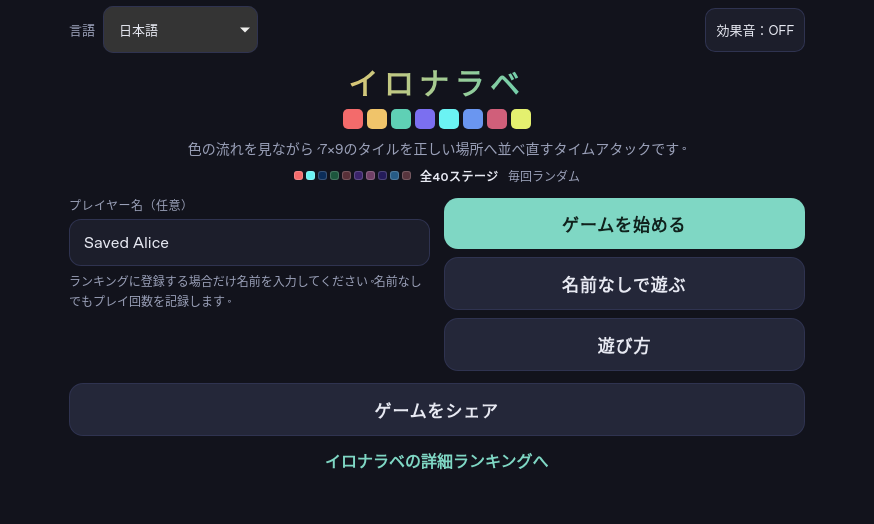
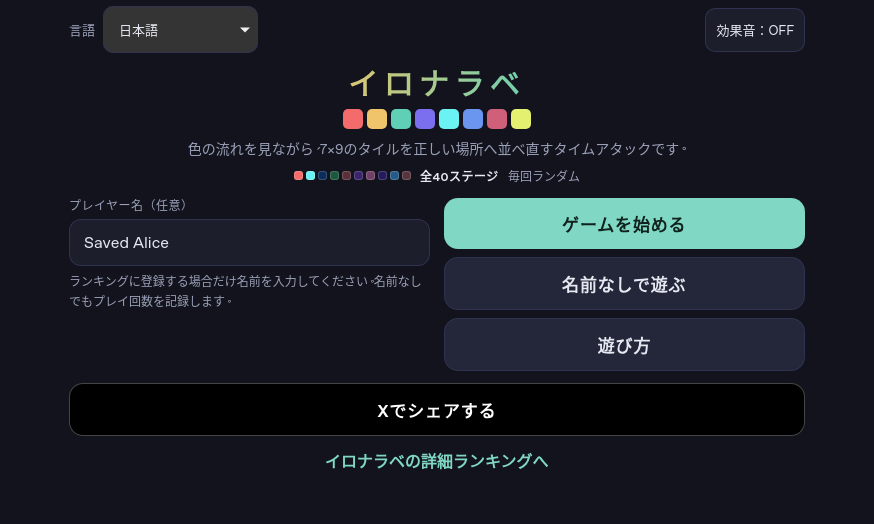
feat: share home and result drafts directly on X

Changed region(s): [[0.0618, 0.7328, 0.9268, 0.855]]

diff --git a/js/translations.js b/js/translations.js
@@ -100,7 +100,9 @@
     "紅葉": "紅葉",
     "全{0}ステージ": "全{0}ステージ",
     "全{0}ステージから毎回1つが選ばれる": "全{0}ステージから毎回1つが選ばれる",
-    "イロナラベ\n全{0}ステージから毎回ランダム。色の流れを見ながら、7×9のタイルを正しい場所へ並べよう。\n{1}": "イロナラベ\n全{0}ステージから毎回ランダム。色の流れを見ながら、7×9のタイルを正しい場所へ並べよう。\n{1}"
+    "イロナラベ\n全{0}ステージから毎回ランダム。色の流れを見ながら、7×9のタイルを正しい場所へ並べよう。\n{1}": "イロナラベ\n全{0}ステージから毎回ランダム。色の流れを見ながら、7×9のタイルを正しい場所へ並べよう。\n{1}",
+    "Xでシェアする": "Xでシェアする",
+    "イロナラベ\n色の流れを見ながら、7×9のタイルを正しい場所へ並べよう。\n{0}": "イロナラベ\n色の流れを見ながら、7×9のタイルを正しい場所へ並べよう。\n{0}"
   },
   "en": {
     "イロナラベ": "Ironarabe",
@@ -194,7 +196,9 @@
     "紅葉": "Autumn Leaves",
     "全{0}ステージ": "{0} stages",
     "全{0}ステージから毎回1つが選ばれる": "One of the {0} stages is chosen at random each time",
-    "イロナラベ\n全{0}ステージから毎回ランダム。色の流れを見ながら、7×9のタイルを正しい場所へ並べよう。\n{1}": "Ironarabe\nA random stage from {0} each time. Follow the color gradients and arrange the 7×9 tiles in their correct positions.\n{1}"
+    "イロナラベ\n全{0}ステージから毎回ランダム。色の流れを見ながら、7×9のタイルを正しい場所へ並べよう。\n{1}": "Ironarabe\nA random stage from {0} each time. Follow the color gradients and arrange the 7×9 tiles in their correct positions.\n{1}",
+    "Xでシェアする": "Share on X",
+    "イロナラベ\n色の流れを見ながら、7×9のタイルを正しい場所へ並べよう。\n{0}": "Ironarabe\nFollow the color gradients and arrange the 7×9 tiles in their correct positions.\n{0}"
   },
   "es": {
     "イロナラベ": "Ironarabe",
@@ -288,7 +292,9 @@
     "紅葉": "Hojas de otoño",
     "全{0}ステージ": "{0} niveles",
     "全{0}ステージから毎回1つが選ばれる": "En cada partida se elige uno de los {0} niveles al azar",
-    "イロナラベ\n全{0}ステージから毎回ランダム。色の流れを見ながら、7×9のタイルを正しい場所へ並べよう。\n{1}": "Ironarabe\nUn nivel aleatorio entre {0} en cada partida. Sigue los degradados de color y coloca las fichas de la cuadrícula de 7×9 en su lugar.\n{1}"
+    "イロナラベ\n全{0}ステージから毎回ランダム。色の流れを見ながら、7×9のタイルを正しい場所へ並べよう。\n{1}": "Ironarabe\nUn nivel aleatorio entre {0} en cada partida. Sigue los degradados de color y coloca las fichas de la cuadrícula de 7×9 en su lugar.\n{1}",
+    "Xでシェアする": "Compartir en X",
+    "イロナラベ\n色の流れを見ながら、7×9のタイルを正しい場所へ並べよう。\n{0}": "Ironarabe\nSigue los degradados de color y coloca las fichas de la cuadrícula de 7×9 en su lugar.\n{0}"
   },
   "pt-BR": {
     "イロナラベ": "Ironarabe",
@@ -382,7 +388,9 @@
     "紅葉": "Folhas de outono",
     "全{0}ステージ": "{0} fases",
     "全{0}ステージから毎回1つが選ばれる": "Uma das {0} fases é escolhida aleatoriamente a cada partida",
-    "イロナラベ\n全{0}ステージから毎回ランダム。色の流れを見ながら、7×9のタイルを正しい場所へ並べよう。\n{1}": "Ironarabe\nUma fase aleatória entre {0} a cada partida. Siga os degradês de cores e coloque as peças da grade de 7×9 nos lugares certos.\n{1}"
+    "イロナラベ\n全{0}ステージから毎回ランダム。色の流れを見ながら、7×9のタイルを正しい場所へ並べよう。\n{1}": "Ironarabe\nUma fase aleatória entre {0} a cada partida. Siga os degradês de cores e coloque as peças da grade de 7×9 nos lugares certos.\n{1}",
+    "Xでシェアする": "Compartilhar no X",
+    "イロナラベ\n色の流れを見ながら、7×9のタイルを正しい場所へ並べよう。\n{0}": "Ironarabe\nSiga os degradês de cores e coloque as peças da grade de 7×9 nos lugares certos.\n{0}"
   },
   "zh-Hans": {
     "イロナラベ": "Ironarabe",
@@ -476,7 +484,9 @@
     "紅葉": "红叶",
     "全{0}ステージ": "共{0}个关卡",
     "全{0}ステージから毎回1つが選ばれる": "每次从{0}个关卡中随机选择一个",
-    "イロナラベ\n全{0}ステージから毎回ランダム。色の流れを見ながら、7×9のタイルを正しい場所へ並べよう。\n{1}": "Ironarabe\n每次从{0}个关卡中随机选择一个。观察色彩渐变，将7×9的方块排列到正确位置。\n{1}"
+    "イロナラベ\n全{0}ステージから毎回ランダム。色の流れを見ながら、7×9のタイルを正しい場所へ並べよう。\n{1}": "Ironarabe\n每次从{0}个关卡中随机选择一个。观察色彩渐变，将7×9的方块排列到正确位置。\n{1}",
+    "Xでシェアする": "分享到 X",
+    "イロナラベ\n色の流れを見ながら、7×9のタイルを正しい場所へ並べよう。\n{0}": "Ironarabe\n观察色彩渐变，将7×9的方块排列到正确位置。\n{0}"
   },
   "fr": {
     "イロナラベ": "Ironarabe",
@@ -570,7 +580,9 @@
     "紅葉": "Feuilles d’automne",
     "全{0}ステージ": "{0} niveaux",
     "全{0}ステージから毎回1つが選ばれる": "Un des {0} niveaux est choisi au hasard à chaque partie",
-    "イロナラベ\n全{0}ステージから毎回ランダム。色の流れを見ながら、7×9のタイルを正しい場所へ並べよう。\n{1}": "Ironarabe\nUn niveau choisi au hasard parmi {0} à chaque partie. Suivez les dégradés de couleurs et replacez les tuiles de la grille de 7×9 au bon endroit.\n{1}"
+    "イロナラベ\n全{0}ステージから毎回ランダム。色の流れを見ながら、7×9のタイルを正しい場所へ並べよう。\n{1}": "Ironarabe\nUn niveau choisi au hasard parmi {0} à chaque partie. Suivez les dégradés de couleurs et replacez les tuiles de la grille de 7×9 au bon endroit.\n{1}",
+    "Xでシェアする": "Partager sur X",
+    "イロナラベ\n色の流れを見ながら、7×9のタイルを正しい場所へ並べよう。\n{0}": "Ironarabe\nSuivez les dégradés de couleurs et replacez les tuiles de la grille 7×9 au bon endroit.\n{0}"
   },
   "de": {
     "イロナラベ": "Ironarabe",
@@ -664,7 +676,9 @@
     "紅葉": "Herbstlaub",
     "全{0}ステージ": "{0} Level",
     "全{0}ステージから毎回1つが選ばれる": "Bei jedem Spiel wird eines der {0} Level zufällig gewählt",
-    "イロナラベ\n全{0}ステージから毎回ランダム。色の流れを見ながら、7×9のタイルを正しい場所へ並べよう。\n{1}": "Ironarabe\nBei jedem Spiel wird eines von {0} Leveln zufällig gewählt. Folge den Farbverläufen und bringe die 7×9 Kacheln an die richtigen Stellen.\n{1}"
+    "イロナラベ\n全{0}ステージから毎回ランダム。色の流れを見ながら、7×9のタイルを正しい場所へ並べよう。\n{1}": "Ironarabe\nBei jedem Spiel wird eines von {0} Leveln zufällig gewählt. Folge den Farbverläufen und bringe die 7×9 Kacheln an die richtigen Stellen.\n{1}",
+    "Xでシェアする": "Auf X teilen",
+    "イロナラベ\n色の流れを見ながら、7×9のタイルを正しい場所へ並べよう。\n{0}": "Ironarabe\nFolge den Farbverläufen und bringe die 7×9 Kacheln an die richtigen Stellen.\n{0}"
   },
   "ko": {
     "イロナラベ": "Ironarabe",
@@ -758,7 +772,9 @@
     "紅葉": "단풍",
     "全{0}ステージ": "총 {0}개 스테이지",
     "全{0}ステージから毎回1つが選ばれる": "매번 {0}개 스테이지 중 하나가 무작위로 선택됩니다",
-    "イロナラベ\n全{0}ステージから毎回ランダム。色の流れを見ながら、7×9のタイルを正しい場所へ並べよう。\n{1}": "Ironarabe\n매번 {0}개 스테이지 중 하나를 무작위로 선택합니다. 색의 그라데이션을 보며 7×9 타일을 올바른 위치에 배열해 보세요.\n{1}"
+    "イロナラベ\n全{0}ステージから毎回ランダム。色の流れを見ながら、7×9のタイルを正しい場所へ並べよう。\n{1}": "Ironarabe\n매번 {0}개 스테이지 중 하나를 무작위로 선택합니다. 색의 그라데이션을 보며 7×9 타일을 올바른 위치에 배열해 보세요.\n{1}",
+    "Xでシェアする": "X에 공유하기",
+    "イロナラベ\n色の流れを見ながら、7×9のタイルを正しい場所へ並べよう。\n{0}": "Ironarabe\n색의 그라데이션을 보며 7×9 타일을 올바른 위치에 배열해 보세요.\n{0}"
   },
   "ru": {
     "イロナラベ": "Ironarabe",
@@ -852,7 +868,9 @@
     "紅葉": "Осенняя листва",
     "全{0}ステージ": "{0} уровней",
     "全{0}ステージから毎回1つが選ばれる": "Каждый раз случайно выбирается один из {0} уровней",
-    "イロナラベ\n全{0}ステージから毎回ランダム。色の流れを見ながら、7×9のタイルを正しい場所へ並べよう。\n{1}": "Ironarabe\nКаждый раз — случайный уровень из {0}. Следите за цветовыми переходами и расставляйте плитки поля 7×9 по правильным местам.\n{1}"
+    "イロナラベ\n全{0}ステージから毎回ランダム。色の流れを見ながら、7×9のタイルを正しい場所へ並べよう。\n{1}": "Ironarabe\nКаждый раз — случайный уровень из {0}. Следите за цветовыми переходами и расставляйте плитки поля 7×9 по правильным местам.\n{1}",
+    "Xでシェアする": "Поделиться в X",
+    "イロナラベ\n色の流れを見ながら、7×9のタイルを正しい場所へ並べよう。\n{0}": "Ironarabe\nСледите за цветовыми переходами и расставляйте плитки поля 7×9 по правильным местам.\n{0}"
   },
   "it": {
     "イロナラベ": "Ironarabe",
@@ -946,7 +964,9 @@
     "紅葉": "Foglie d’autunno",
     "全{0}ステージ": "{0} livelli",
     "全{0}ステージから毎回1つが選ばれる": "A ogni partita viene scelto casualmente un livello tra i {0} disponibili",
-    "イロナラベ\n全{0}ステージから毎回ランダム。色の流れを見ながら、7×9のタイルを正しい場所へ並べよう。\n{1}": "Ironarabe\nUn livello casuale tra {0} a ogni partita. Segui le sfumature di colore e sistema le tessere della griglia 7×9 nelle posizioni corrette.\n{1}"
+    "イロナラベ\n全{0}ステージから毎回ランダム。色の流れを見ながら、7×9のタイルを正しい場所へ並べよう。\n{1}": "Ironarabe\nUn livello casuale tra {0} a ogni partita. Segui le sfumature di colore e sistema le tessere della griglia 7×9 nelle posizioni corrette.\n{1}",
+    "Xでシェアする": "Condividi su X",
+    "イロナラベ\n色の流れを見ながら、7×9のタイルを正しい場所へ並べよう。\n{0}": "Ironarabe\nSegui le sfumature di colore e sistema le tessere della griglia 7×9 nelle posizioni corrette.\n{0}"
   },
   "zh-Hant": {
     "イロナラベ": "Ironarabe",
@@ -1040,7 +1060,9 @@
     "紅葉": "紅葉",
     "全{0}ステージ": "共{0}個關卡",
     "全{0}ステージから毎回1つが選ばれる": "每次從{0}個關卡中隨機選擇一個",
-    "イロナラベ\n全{0}ステージから毎回ランダム。色の流れを見ながら、7×9のタイルを正しい場所へ並べよう。\n{1}": "Ironarabe\n每次從{0}個關卡中隨機選擇一個。觀察色彩漸層，將7×9的方塊排列到正確位置。\n{1}"
+    "イロナラベ\n全{0}ステージから毎回ランダム。色の流れを見ながら、7×9のタイルを正しい場所へ並べよう。\n{1}": "Ironarabe\n每次從{0}個關卡中隨機選擇一個。觀察色彩漸層，將7×9的方塊排列到正確位置。\n{1}",
+    "Xでシェアする": "分享到 X",
+    "イロナラベ\n色の流れを見ながら、7×9のタイルを正しい場所へ並べよう。\n{0}": "Ironarabe\n觀察色彩漸層，將7×9的方塊排列到正確位置。\n{0}"
   },
   "id": {
     "イロナラベ": "Ironarabe",
@@ -1134,7 +1156,9 @@
     "紅葉": "Daun musim gugur",
     "全{0}ステージ": "{0} level",
     "全{0}ステージから毎回1つが選ばれる": "Satu dari {0} level dipilih secara acak setiap kali bermain",
-    "イロナラベ\n全{0}ステージから毎回ランダム。色の流れを見ながら、7×9のタイルを正しい場所へ並べよう。\n{1}": "Ironarabe\nSatu level acak dari {0} setiap kali bermain. Ikuti gradasi warna dan susun ubin pada bidang 7×9 ke posisi yang benar.\n{1}"
+    "イロナラベ\n全{0}ステージから毎回ランダム。色の流れを見ながら、7×9のタイルを正しい場所へ並べよう。\n{1}": "Ironarabe\nSatu level acak dari {0} setiap kali bermain. Ikuti gradasi warna dan susun ubin pada bidang 7×9 ke posisi yang benar.\n{1}",
+    "Xでシェアする": "Bagikan di X",
+    "イロナラベ\n色の流れを見ながら、7×9のタイルを正しい場所へ並べよう。\n{0}": "Ironarabe\nIkuti gradasi warna dan susun ubin pada bidang 7×9 ke posisi yang benar.\n{0}"
   },
   "tr": {
     "イロナラベ": "Ironarabe",
@@ -1228,7 +1252,9 @@
     "紅葉": "Sonbahar Yaprakları",
     "全{0}ステージ": "Toplam {0} bölüm",
     "全{0}ステージから毎回1つが選ばれる": "Her oyunda {0} bölümden biri rastgele seçilir",
-    "イロナラベ\n全{0}ステージから毎回ランダム。色の流れを見ながら、7×9のタイルを正しい場所へ並べよう。\n{1}": "Ironarabe\nHer oyunda {0} bölümden biri rastgele seçilir. Renk geçişlerini takip ederek 7×9 kareyi doğru yerlerine yerleştir.\n{1}"
+    "イロナラベ\n全{0}ステージから毎回ランダム。色の流れを見ながら、7×9のタイルを正しい場所へ並べよう。\n{1}": "Ironarabe\nHer oyunda {0} bölümden biri rastgele seçilir. Renk geçişlerini takip ederek 7×9 kareyi doğru yerlerine yerleştir.\n{1}",
+    "Xでシェアする": "X'te paylaş",
+    "イロナラベ\n色の流れを見ながら、7×9のタイルを正しい場所へ並べよう。\n{0}": "Ironarabe\nRenk geçişlerini takip ederek 7×9 kareyi doğru yerlerine yerleştir.\n{0}"
   },
   "vi": {
     "イロナラベ": "Ironarabe",
@@ -1322,7 +1348,9 @@
     "紅葉": "Lá thu",
     "全{0}ステージ": "Tổng cộng {0} màn",
     "全{0}ステージから毎回1つが選ばれる": "Mỗi lần chơi sẽ chọn ngẫu nhiên một trong {0} màn",
-    "イロナラベ\n全{0}ステージから毎回ランダム。色の流れを見ながら、7×9のタイルを正しい場所へ並べよう。\n{1}": "Ironarabe\nMỗi lần chơi sẽ chọn ngẫu nhiên một trong {0} màn. Quan sát dải màu chuyển sắc và xếp các ô trong lưới 7×9 về đúng vị trí.\n{1}"
+    "イロナラベ\n全{0}ステージから毎回ランダム。色の流れを見ながら、7×9のタイルを正しい場所へ並べよう。\n{1}": "Ironarabe\nMỗi lần chơi sẽ chọn ngẫu nhiên một trong {0} màn. Quan sát dải màu chuyển sắc và xếp các ô trong lưới 7×9 về đúng vị trí.\n{1}",
+    "Xでシェアする": "Chia sẻ trên X",
+    "イロナラベ\n色の流れを見ながら、7×9のタイルを正しい場所へ並べよう。\n{0}": "Ironarabe\nQuan sát dải màu chuyển sắc và xếp các ô trong lưới 7×9 về đúng vị trí.\n{0}"
   },
   "th": {
     "イロナラベ": "Ironarabe",
@@ -1416,7 +1444,9 @@
     "紅葉": "ใบไม้เปลี่ยนสี",
     "全{0}ステージ": "ทั้งหมด {0} ด่าน",
     "全{0}ステージから毎回1つが選ばれる": "สุ่มเลือก 1 ด่านจากทั้งหมด {0} ด่านในแต่ละครั้ง",
-    "イロナラベ\n全{0}ステージから毎回ランダム。色の流れを見ながら、7×9のタイルを正しい場所へ並べよう。\n{1}": "Ironarabe\nสุ่ม 1 ด่านจากทั้งหมด {0} ด่านทุกครั้ง สังเกตการไล่สีแล้วจัดแผ่นในตาราง 7×9 ให้ตรงตำแหน่งที่ถูกต้อง\n{1}"
+    "イロナラベ\n全{0}ステージから毎回ランダム。色の流れを見ながら、7×9のタイルを正しい場所へ並べよう。\n{1}": "Ironarabe\nสุ่ม 1 ด่านจากทั้งหมด {0} ด่านทุกครั้ง สังเกตการไล่สีแล้วจัดแผ่นในตาราง 7×9 ให้ตรงตำแหน่งที่ถูกต้อง\n{1}",
+    "Xでシェアする": "แชร์บน X",
+    "イロナラベ\n色の流れを見ながら、7×9のタイルを正しい場所へ並べよう。\n{0}": "Ironarabe\nสังเกตการไล่สีแล้วจัดแผ่นในตาราง 7×9 ให้ตรงตำแหน่งที่ถูกต้อง\n{0}"
   }
 };
 });

diff --git a/index.html b/index.html
@@ -13,7 +13,7 @@
 <meta name="description" content="色の流れを並べ直す40問のタイムアタックパズル。15言語・効果音に対応。">
 <meta name="twitter:card" content="summary">
 <meta name="twitter:url" content="https://chameleonjp-lab.github.io/ironarabe/">
-<meta name="ironarabe-ui-release" content="ironarabe-web-1.6.1-home-name">
+<meta name="ironarabe-ui-release" content="ironarabe-web-1.6.2-x-share">
 <style>
   :root {
     --bg:#12131c;
@@ -119,6 +119,7 @@
   .home-name { min-width:0; margin-bottom:0; }
   .name-hint { color:var(--muted); font-size:12px; line-height:1.6; margin:7px 0 0; overflow-wrap:anywhere; }
   .home-share-btn { margin-top:0; padding:13px 14px; }
+  .btn.x-share { display:block; background:#000; color:#fff; border:1px solid #444; text-align:center; text-decoration:none; }
   .stage-note { display:flex; align-items:center; justify-content:center; flex-wrap:wrap; gap:6px 9px; margin:-6px 0 12px; color:var(--muted); font-size:12px; }
   .stage-note strong { color:var(--text); font-size:12px; letter-spacing:.04em; }
   .stage-dots { display:flex; gap:3px; }
@@ -360,7 +361,7 @@
         <li id="stageCountInstruction" data-i18n="全{0}ステージから毎回1つが選ばれる">全40ステージから毎回1つが選ばれる</li>
       </ol>
     </div>
-    <button class="btn secondary home-share-btn" id="homeShareBtn" data-i18n="ゲームをシェア">ゲームをシェア</button>
+    <a class="btn x-share home-share-btn" id="homeShareBtn" href="https://twitter.com/intent/tweet" target="_blank" rel="noopener noreferrer" data-i18n="Xでシェアする">Xでシェアする</a>
     <a class="panel-link" id="homeLabLink" href="https://chameleonjp-lab.github.io/chameleonjp_lab/ranking.html?game=ironarabe" data-i18n="イロナラベの詳細ランキングへ">イロナラベの詳細ランキングへ</a>
     <div class="toast" id="homeToast" aria-live="polite"></div>
   </section>
@@ -414,7 +415,7 @@
     <div class="spacer"></div>
     <button class="btn" id="againBtn" data-i18n="もう一度遊ぶ">もう一度遊ぶ</button>
     <div class="btn-row">
-      <button class="btn secondary" id="resultShareBtn" data-i18n="結果をシェア">結果をシェア</button>
+      <a class="btn x-share" id="resultShareBtn" href="https://twitter.com/intent/tweet" target="_blank" rel="noopener noreferrer" data-i18n="Xでシェアする">Xでシェアする</a>
       <button class="btn secondary" id="homeBtn" data-i18n="ホームへ戻る">ホームへ戻る</button>
     </div>
     <a class="panel-link" id="resultLabLink" href="https://chameleonjp-lab.github.io/chameleonjp_lab/ranking.html?game=ironarabe" data-i18n="イロナラベの詳細ランキングへ">イロナラベの詳細ランキングへ</a>
@@ -596,7 +597,7 @@
     },CLEAR_BOARD_DISPLAY_MS);
   }
   function onBoardTap(e){const target=e.target.closest('.tile');if(!target)return;const pos=parseInt(target.dataset.pos,10);if(!Number.isNaN(pos))selectTile(pos);}
-  function showResult(playId){if(playId!==state.playId||state.resultShownPlayId===playId)return;clearToast('home');hideCompletion();el.retireBtn.disabled=true;state.resultShownPlayId=playId;const score=elapsedMsToScore(state.elapsedMs);setMessage(el.resultTime,'{0}秒',()=>[formatScore(score)]);setMessage(el.resultOperations,'{0}回操作',()=>[formatNumber(state.operations)]);updateStageUi();setPhase('result');sound.play('result');loadRankings(false);}
+  function showResult(playId){if(playId!==state.playId||state.resultShownPlayId===playId)return;clearToast('home');hideCompletion();el.retireBtn.disabled=true;state.resultShownPlayId=playId;const score=elapsedMsToScore(state.elapsedMs);setMessage(el.resultTime,'{0}秒',()=>[formatScore(score)]);setMessage(el.resultOperations,'{0}回操作',()=>[formatNumber(state.operations)]);updateStageUi();updateShareLinks();setPhase('result');sound.play('result');loadRankings(false);}
   function retire(){if(state.phase!=='playing'||state.cleared||state.inputLocked||state.resultShownPlayId===state.playId)return;clearClearTimer();clearSwapTimer();returnHome();}
 
   const guestCounter=IronarabeGuests.createGuestPlayCounter({
@@ -633,19 +634,14 @@
   function applyRankingRows(rows){state.rankingRows=rows;renderRankingList(el.resultRankingList,rows);if(rows.length===0)setRankingState('empty','まだランキング記録がありません。');else setRankingState('ready','');}
   function loadRankings(force){if(!isRankingConfigured()){setRankingState('error','ランキングは未設定です。');return Promise.resolve([]);}if(!force&&state.rankingRows.length){applyRankingRows(state.rankingRows);return Promise.resolve(state.rankingRows);}const requestId=++state.rankingRequestId;setRankingState('loading','ランキングを読み込み中…');return postRpc('get_best_score_ranking',{p_game_slug:GAME_SLUG,p_limit:RANKING_LIMIT},RANKING_FETCH_TIMEOUT_MS).then(function(data){if(requestId!==state.rankingRequestId)return [];const rows=normalizeRankingRows(data);applyRankingRows(rows);return rows;}).catch(function(){if(requestId!==state.rankingRequestId)return [];setRankingState('error','ランキングを読み込めませんでした。');return [];});}
 
-  function showToast(name,message,isError){const target=name==='result'?el.resultToast:el.homeToast;clearToast(name);setMessage(target,message);target.classList.toggle('err',Boolean(isError));const timerId=setTimeout(function(){if(state.toastTimerIds[name]!==timerId)return;clearToast(name);},1800);state.toastTimerIds[name]=timerId;}
-  function copyWithClipboardApi(text){if(!(navigator.clipboard&&navigator.clipboard.writeText))return Promise.reject(new Error('clipboard unavailable'));return navigator.clipboard.writeText(text);}
-  function copyWithTemporaryTextarea(text){return new Promise(function(resolve,reject){const ta=document.createElement('textarea');ta.value=text;ta.setAttribute('readonly','');ta.style.position='fixed';ta.style.top='-1000px';ta.style.left='-1000px';ta.style.opacity='0';document.body.appendChild(ta);try{ta.focus();ta.select();if(ta.setSelectionRange)ta.setSelectionRange(0,text.length);document.execCommand('copy')?resolve():reject(new Error('copy failed'));}catch(e){reject(e);}finally{document.body.removeChild(ta);}});}
-  function copyText(text){return copyWithClipboardApi(text).catch(function(){return copyWithTemporaryTextarea(text);});}
-  function shareText(text,toastName){function copyAndNotify(){copyText(text).then(()=>showToast(toastName,'シェア文をコピーしました',false)).catch(()=>showToast(toastName,'コピーできませんでした',true));}if(navigator.share){navigator.share({title:t('イロナラベ'),text:text}).catch(function(err){if(err&&err.name==='AbortError')return;copyAndNotify();});return;}copyAndNotify();}
-  function shareHome(){shareText(t('イロナラベ\n全{0}ステージから毎回ランダム。色の流れを見ながら、7×9のタイルを正しい場所へ並べよう。\n{1}',[formatNumber(STAGES.length),GAME_URL]),'home');}
-  function shareResult(){shareText(t('イロナラベ\nSTAGE {0}「{1}」を{2}秒・操作{3}回でクリア！\n{4}',[stageShortLabel(state.stage),stageLongLabel(state.stage),formatElapsedMs(state.elapsedMs),formatNumber(state.operations),GAME_URL]),'result');}
+  function xShareUrl(text){const url=new URL('https://twitter.com/intent/tweet');url.searchParams.set('text',text);return url.href;}
+  function updateShareLinks(){el.homeShareBtn.href=xShareUrl(t('イロナラベ\n色の流れを見ながら、7×9のタイルを正しい場所へ並べよう。\n{0}',[GAME_URL]));el.resultShareBtn.href=xShareUrl(t('イロナラベ\nSTAGE {0}「{1}」を{2}秒・操作{3}回でクリア！\n{4}',[stageShortLabel(state.stage),stageLongLabel(state.stage),formatElapsedMs(state.elapsedMs),formatNumber(state.operations),GAME_URL]));}
   function buildLogoChips(){STAGE_PALETTES.slice(0,2).flatMap(function(palette){return palette.corners;}).forEach(function(hex){const s=document.createElement('span');s.style.background=hex;el.logoChips.appendChild(s);});}
   function buildStagePackDots(){STAGE_PALETTES.map(function(palette){return palette.anchors?palette.anchors[0]:palette.corners[0];}).forEach(function(hex){const dot=document.createElement('i');dot.style.background=hex;el.stagePackDots.appendChild(dot);});}
 
   function updateCountdownValue(){const step=COUNTDOWN_STEPS[state.countdownStep];el.countdownValue.textContent=step==='START'?t('START'):formatNumber(Number(step));}
   function updateSoundButtons(){[el.homeSoundBtn,el.resultSoundBtn].forEach(function(button){setMessage(button,sound.isEnabled()?'効果音：ON':'効果音：OFF');button.setAttribute('aria-pressed',String(sound.isEnabled()));});}
-  function refreshLanguage(){setMessage(el.stageCountLabel,'全{0}ステージ',()=>[formatNumber(STAGES.length)]);setMessage(el.stageCountInstruction,'全{0}ステージから毎回1つが選ばれる',()=>[formatNumber(STAGES.length)]);i18n.applyTranslations();el.languageSelect.value=i18n.getLanguage();updateStageUi();updateCountdownValue();el.timeDisplay.textContent=formatElapsedMs(state.elapsedMs);el.operationDisplay.textContent=formatNumber(state.operations);renderRankingList(el.resultRankingList,state.rankingRows);updateSoundButtons();}
+  function refreshLanguage(){setMessage(el.stageCountLabel,'全{0}ステージ',()=>[formatNumber(STAGES.length)]);setMessage(el.stageCountInstruction,'全{0}ステージから毎回1つが選ばれる',()=>[formatNumber(STAGES.length)]);i18n.applyTranslations();el.languageSelect.value=i18n.getLanguage();updateStageUi();updateShareLinks();updateCountdownValue();el.timeDisplay.textContent=formatElapsedMs(state.elapsedMs);el.operationDisplay.textContent=formatNumber(state.operations);renderRankingList(el.resultRankingList,state.rankingRows);updateSoundButtons();}
   IronarabeI18n.SUPPORTED_LANGUAGES.forEach(function(language){const option=document.createElement('option');option.value=language.id;option.textContent=language.name;option.lang=language.id;el.languageSelect.appendChild(option);});
   el.languageSelect.addEventListener('change',function(){i18n.setLanguage(el.languageSelect.value);refreshLanguage();});
   [el.homeSoundBtn,el.resultSoundBtn].forEach(function(button){button.addEventListener('click',function(){sound.setEnabled(!sound.isEnabled());if(sound.isEnabled())sound.unlock();updateSoundButtons();});});
@@ -661,8 +657,6 @@
   el.board.addEventListener('contextmenu',function(e){e.preventDefault();});
   el.againBtn.addEventListener('click',replay);
   el.homeBtn.addEventListener('click',returnHome);
-  el.homeShareBtn.addEventListener('click',shareHome);
-  el.resultShareBtn.addEventListener('click',shareResult);
   el.homeLabLink.href=LAB_URL;
   el.resultLabLink.href=LAB_URL;
   window.addEventListener('pagehide',function(){stopTimer();clearCountdownTimers();clearClearTimer();clearSwapTimer();});

diff --git a/docs/superpowers/plans/2026-10-31-home-player-name.md b/docs/superpowers/plans/2026-10-31-home-player-name.md
@@ -38,3 +38,14 @@
 
 目視確認でWebKitのnative言語メニューが白地に淡い文字となっていたため、selectだけにcolor-scheme:darkを指定した。新しいホーム開始2シナリオを両engineで再実行し、WebKit画像で文字が読めることを確認した。
 
+## 追加依頼: X専用の共有
+
+利用者の追加指定で、ホームの日本語共有を「イロナラベ\n色の流れを見ながら、7×9のタイルを正しい場所へ並べよう。\nhttps://chameleonjp-lab.github.io/ironarabe/」の3行へ変更する。ホーム/結果の「Xでシェアする」は黒地・白字とし、X Web Intentの投稿画面を開くリンクにする。15言語と結果のステージ/タイム/操作数を維持し、言語切替と結果表示時にリンクを更新する。新しい外部SDK、APIキー、DB変更、自動投稿は追加しない。
+
+- [x] 旧ボタンにXリンクが無いREDを確認後、直接投稿画面を開くanchorとURLエンコードを実装。
+- [x] ボタン文言とホーム3行文を15言語へ追加。日本語は指定文と完全一致。
+- [x] 既存16シナリオにX専用2シナリオを追加し、XとSupabase通信を差し替えて全文/色/実popup/現在スコア/言語更新を検証。全18シナリオとNode97件成功。
+- [x] 独立レビューで重大指摘なし。確定SHAのclean buildとPR/CI結果はPR本文へ記録する。
+
+作業中に利用者がPR20をmergeしたため、最新の5fb3682からfeat/x-sharingを作り、X共有だけの追加PRへ分けた。UI公開版は1.6.2-x-share、スコアclient_versionは従来のまま。既存ベストと今回のスコアが異なるfixtureでも、Xへ今回のタイムを渡すことを検証する。Xの投稿画面へのリクエストは全件差し替え、実投稿・本番DB書込みは0件。
+

diff --git a/README.md b/README.md
@@ -32,6 +32,14 @@
 - 全40ステージ表示
 - イロナラベの詳細ランキングへの導線
 
+ホームと結果画面の「Xでシェアする」は黒地・白字で、Xの投稿画面を開きます。ホームの日本語共有文は以下の3行です。他の言語では説明文を翻訳し、結果画面では今回のステージ・タイム・操作回数を共有します。
+
+```text
+イロナラベ
+色の流れを見ながら、7×9のタイルを正しい場所へ並べよう。
+https://chameleonjp-lab.github.io/ironarabe/
+```
+
 ホーム画面にはランキングと端末ローカルベストを表示しません。ページ初期化時とホーム復帰時にはランキング取得RPCを実行しません。
 
 ## 結果画面
